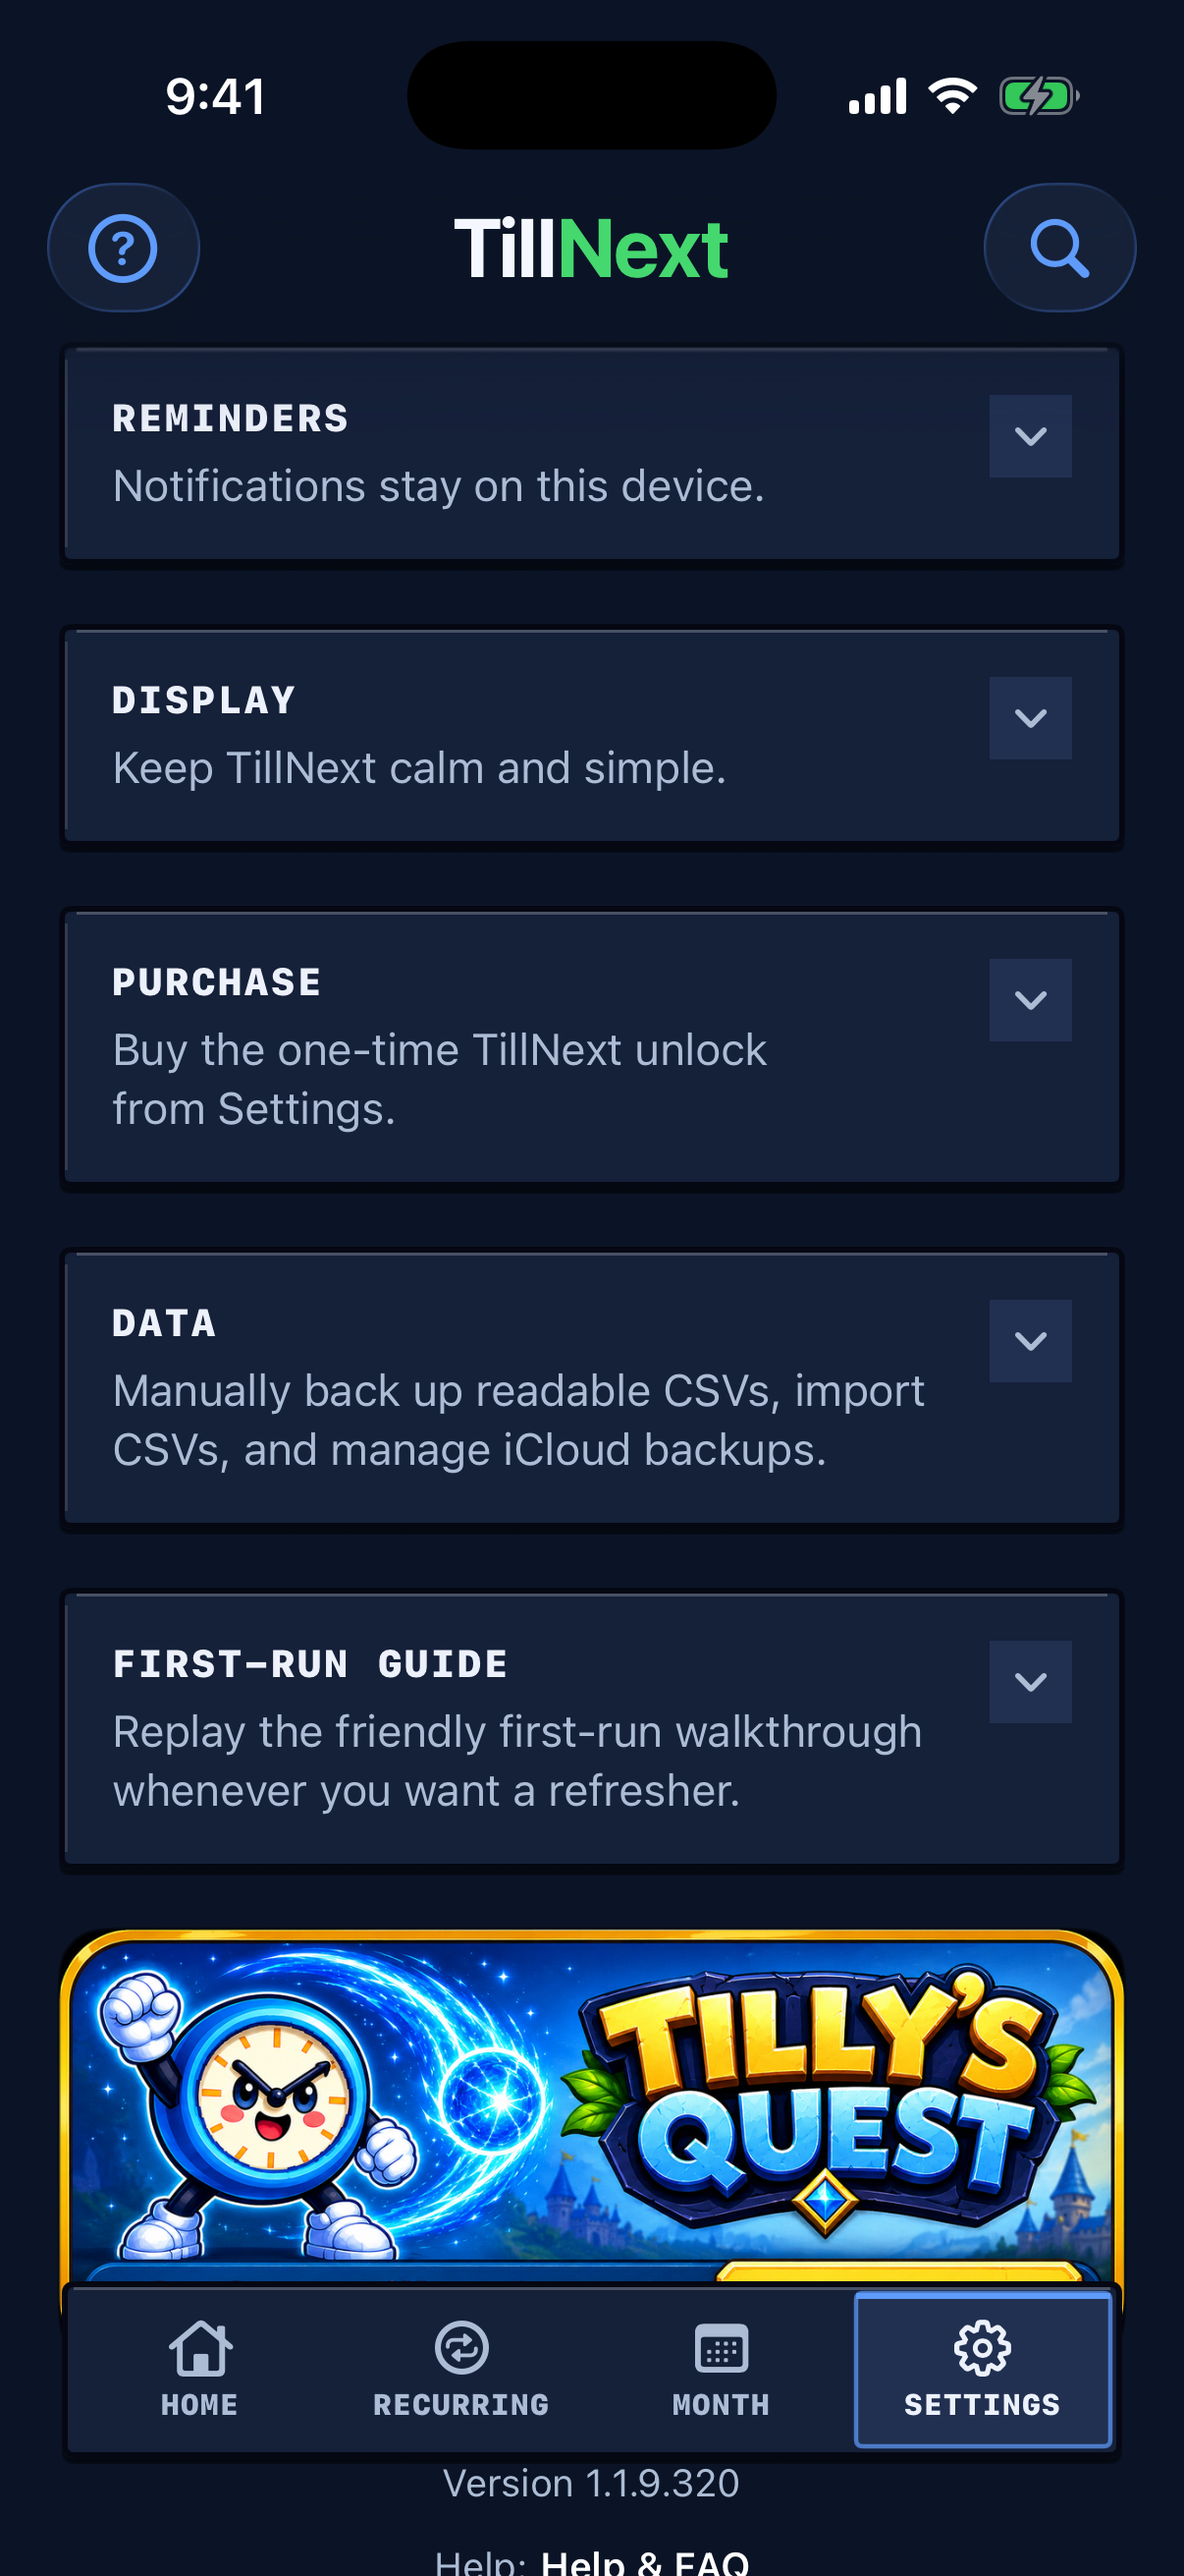
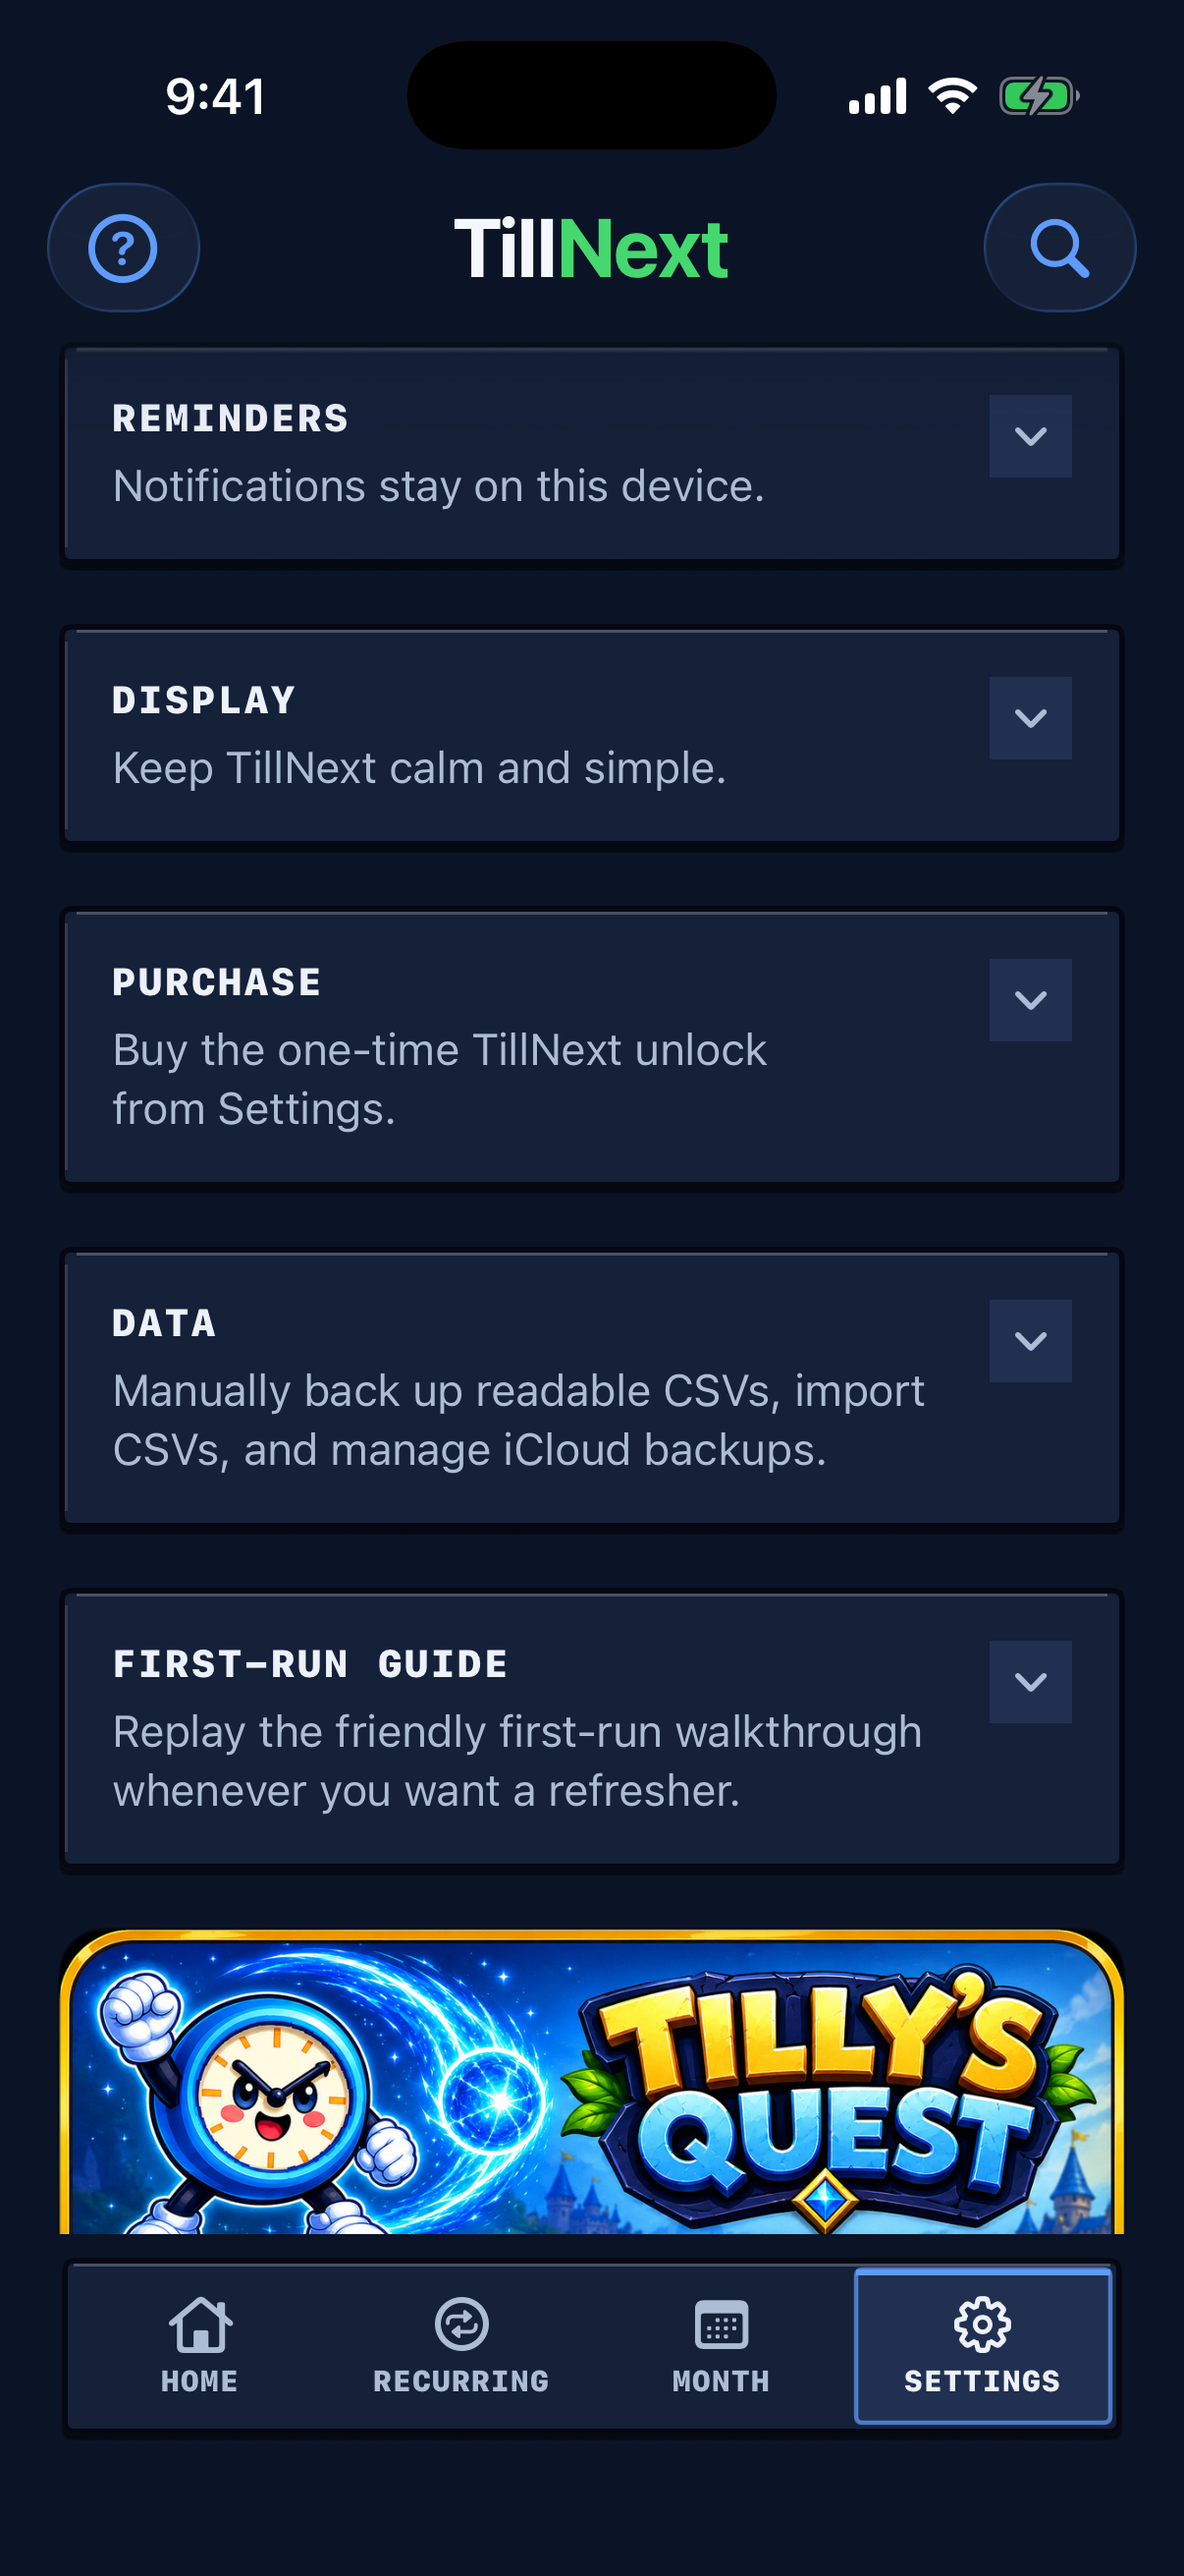
Refresh TillNext build 379 help content

Changed region(s): [[0.0307, 0.865, 0.9511, 1.0]]

diff --git a/changelog/index.html b/changelog/index.html
@@ -25,6 +25,8 @@
       <p><strong>Updated:</strong> August 5, 2026</p>
       <h3>August 5, 2026</h3>
       <ul>
+        <li>Fixed the bottom navigation and editor actions so they stay fully visible above the iPhone home indicator, including at larger text sizes.</li>
+        <li>Simplified balance setup around Cash today and removed the separate beginning-of-month balance prompt.</li>
         <li>Rebuilt TillNext around a deliberate Tilly's Quest HUD, with sharper day and night panels, compact stat displays, divider-based lists, and clearer visual priority for Safe cash.</li>
         <li>Docked the optional Tilly guide above the tab rail, removed automatic chatter and dragging, and made one tap open a focused planning panel.</li>
         <li>Updated the optional Tilly guide to use Tilly's canonical Tilly's Quest pixel sprite.</li>
